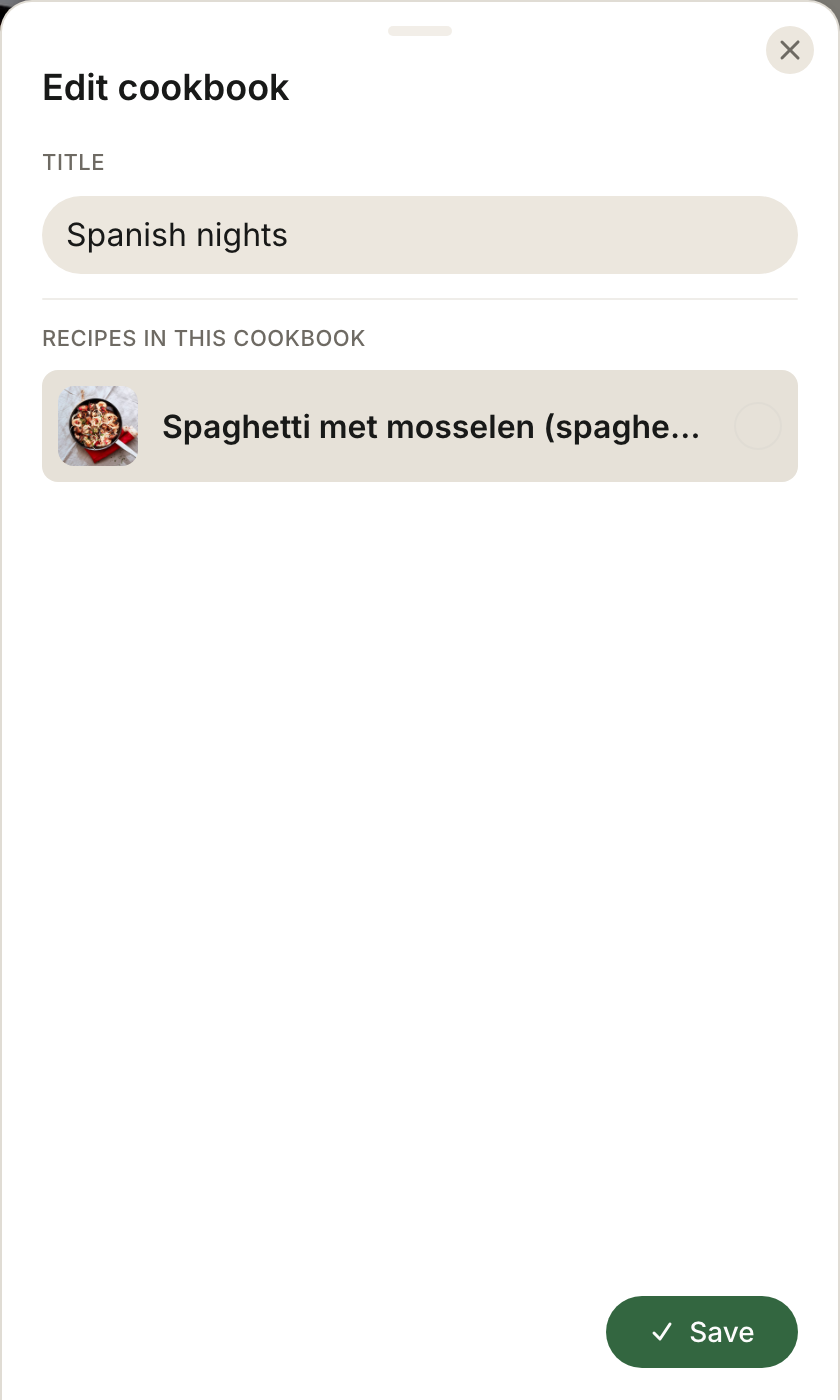
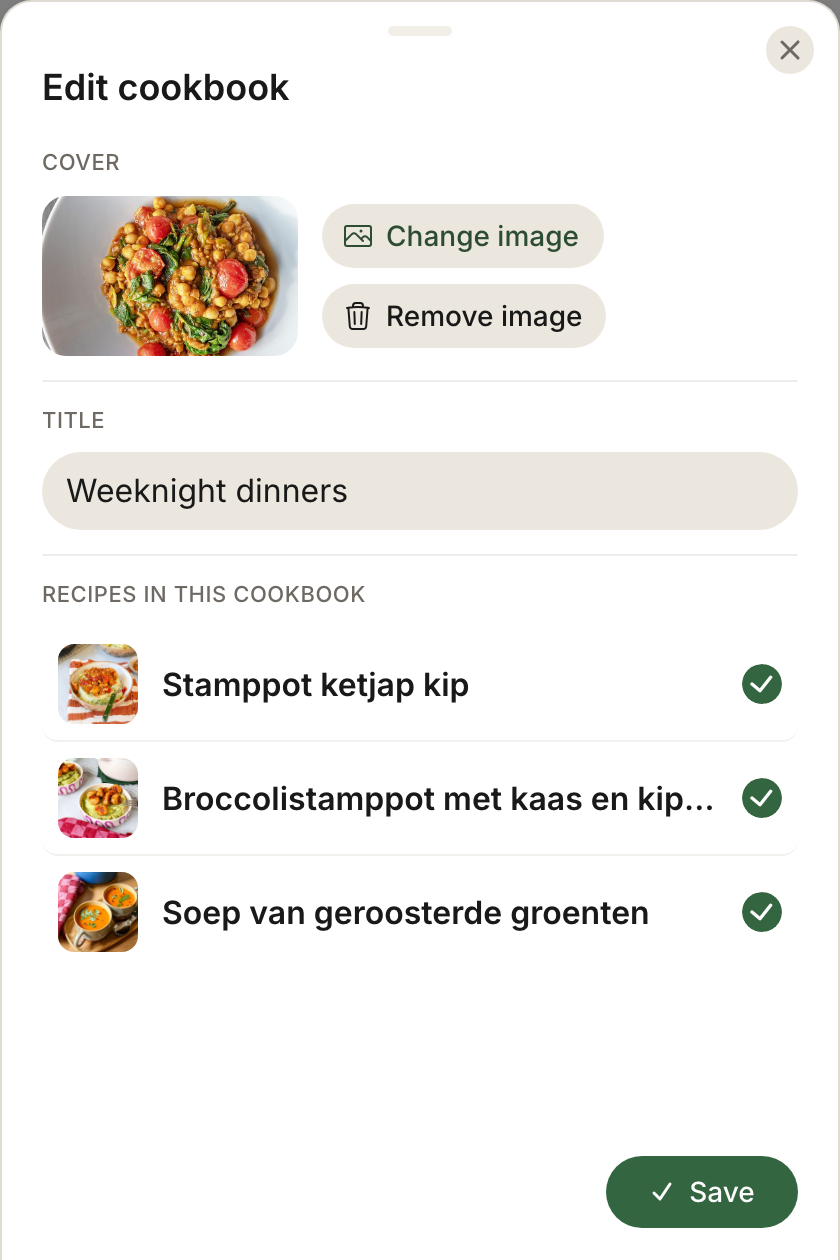
docs(cookbooks): cover images
Claude-Session: https://claude.ai/code/session_01Tsv9mBMp3tDFUw5weLeXdX

diff --git a/CONTEXT.md b/CONTEXT.md
@@ -125,7 +125,7 @@ A recipe or cookbook whose owner's account no longer exists. Deleting an account
 _Avoid_: Unowned (suggests it never had an owner), Deleted user's recipes (names the cause rather than the state), Ownerless
 
 **Cookbook**:
-A titled set of recipes, owned by the person who made it and seen, edited and deleted under the same policy as a recipe. A recipe may belong to several cookbooks, and a cookbook holding none is an ordinary cookbook rather than a broken one: it may be made empty and filled later, or made from the recipe that prompted it, and taking the last recipe out never destroys the title someone chose. It is a set and not a sequence, so it keeps no order of its own and shows its members in whatever sort the reader is already using. Everything beyond its title is derived from its members at read time rather than supplied — the cover, the description that names what is inside, the members' cooking time added up, the smallest number of people any member serves, and the tags a reader finds their allergens among — so a cookbook has nothing to keep up to date and nothing that can go stale.
+A titled set of recipes, owned by the person who made it and seen, edited and deleted under the same policy as a recipe. A recipe may belong to several cookbooks, and a cookbook holding none is an ordinary cookbook rather than a broken one: it may be made empty and filled later, or made from the recipe that prompted it, and taking the last recipe out never destroys the title someone chose. It is a set and not a sequence, so it keeps no order of its own and shows its members in whatever sort the reader is already using. Beyond its title it may hold an uploaded cover image, which shows instead of the cover drawn from its members; everything else is derived from its members at read time rather than supplied — the cover when none is uploaded, the description that names what is inside, the members' cooking time added up, the smallest number of people any member serves, and the tags a reader finds their allergens among — so a cookbook has nothing to keep up to date and nothing that can go stale.
 _Avoid_: Collection (names the shape, and collides with the Library), Folder (suggests a recipe lives in exactly one), Album
 
 ### Groceries & Stores

diff --git a/apps/docs/docs/recipes/cookbooks.md b/apps/docs/docs/recipes/cookbooks.md
@@ -35,15 +35,18 @@ Each of these items are clickable and take you to the respective cookbook.
 If you do no whish to see the cookbooks card you can hide it under: Settings => User => **Hidden
 Items**, kept per phone or desktop, on your profile.
 
-## Renaming one, and taking recipes out
+## Editing one: cover, name and recipes
 
-**Edit cookbook** — from a cookbook's card in the Library, or from the menu on
-its own page, opens the name and the list of what is in it. Rename
-it, untick anything that should go, and **Save** applies both. On the
-cookbook's page, a single recipe can also be taken out from its card: swipe
-it left (or use its three dots) and press the minus.
+**Edit cookbook**, from a cookbook's card in the Library or from the menu on
+its own page, opens its cover, its name and the list of what is in it.
+Choose an image for the cover, rename it, untick anything that should go, and
+**Save** applies it all. A cookbook without an image of its own shows the
+photos of the recipes in it; **Remove image** goes back to those. Changing the
+image needs a connection. On the cookbook's page, a single recipe can also be
+taken out from its card: swipe it left (or use its three dots) and press the
+minus.
 
-![Editing a cookbook: its name and what is in it, in one panel](/img/screenshots/cookbooks-edit.png)
+![Editing a cookbook: its cover, name and what is in it, in one panel](/img/screenshots/cookbooks-edit.png)
 
 ## Who can see and change what
 

diff --git a/apps/docs/docs/release-notes/0.25.0-beta.md b/apps/docs/docs/release-notes/0.25.0-beta.md
@@ -164,6 +164,14 @@ never the recipe as it was written.
 
 See [The recipe page](../recipes/recipe-page.md#metric-and-us-measurements).
 
+### Cookbook covers
+
+A cookbook can now have a cover image of your own. Choose one under **Edit
+cookbook**, and it shows on the cookbook's card instead of the photos of the
+recipes in it. **Remove image** goes back to those photos.
+
+See [Cookbooks](../recipes/cookbooks.md#editing-one-cover-name-and-recipes).
+
 ## Fixes and Improvements
 
 - The **Image model** field in Image generation settings now suggests only
